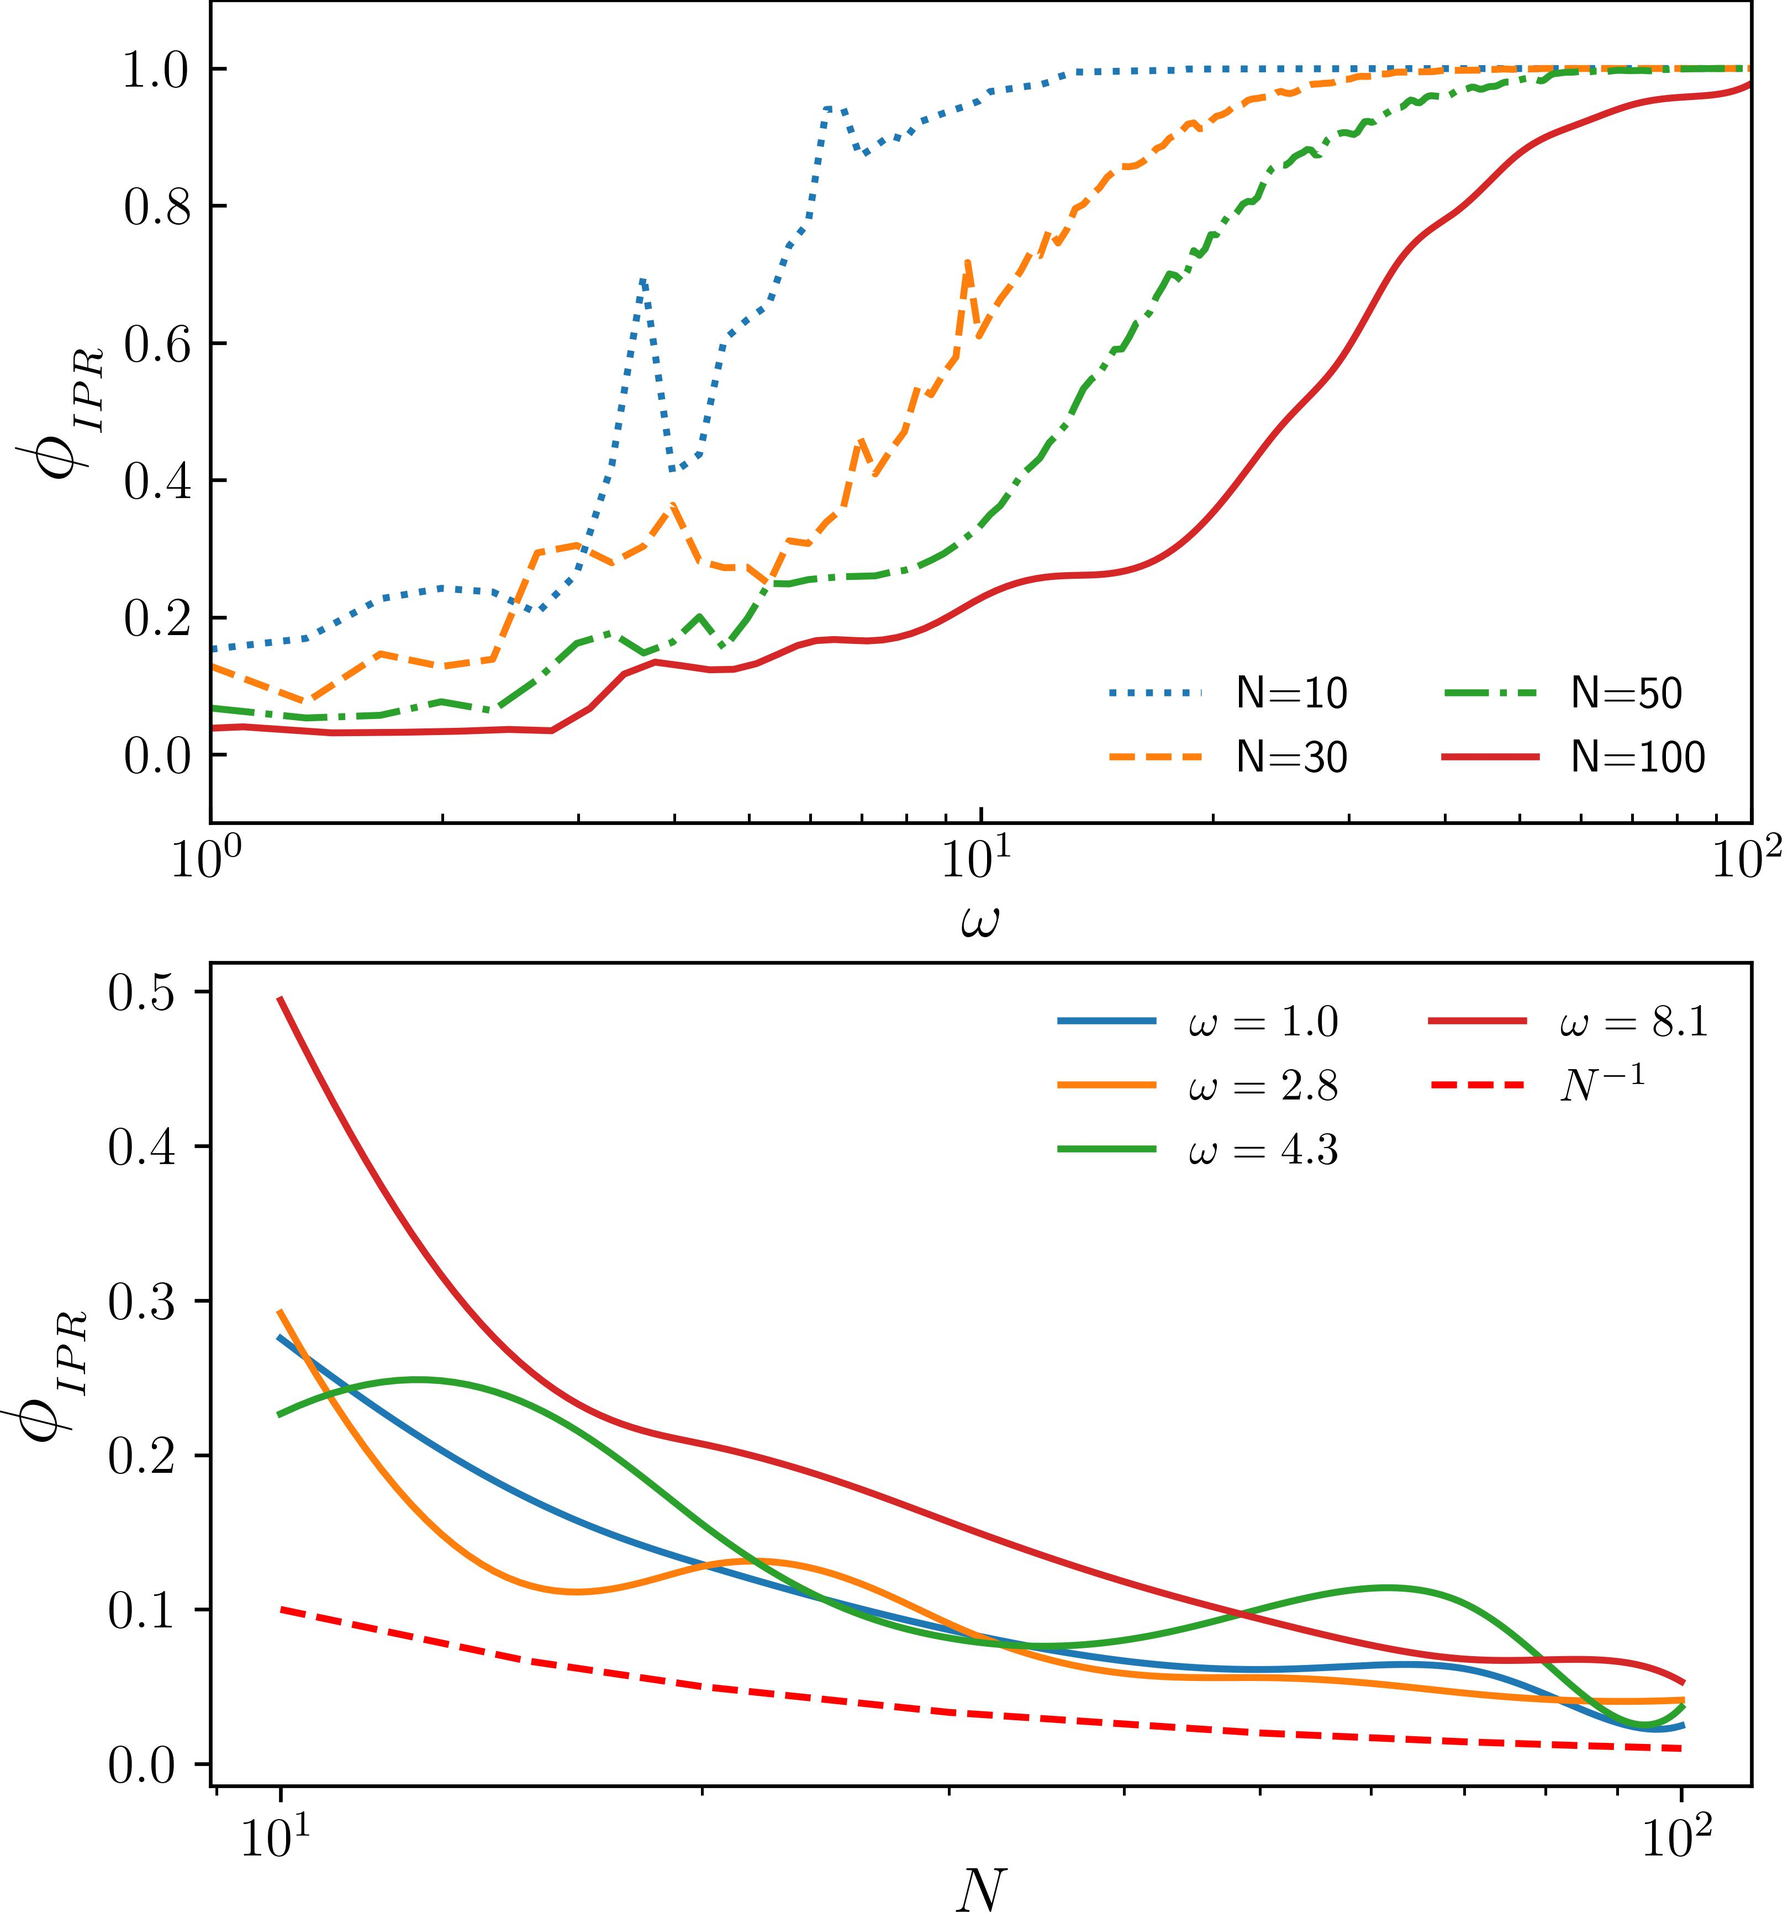
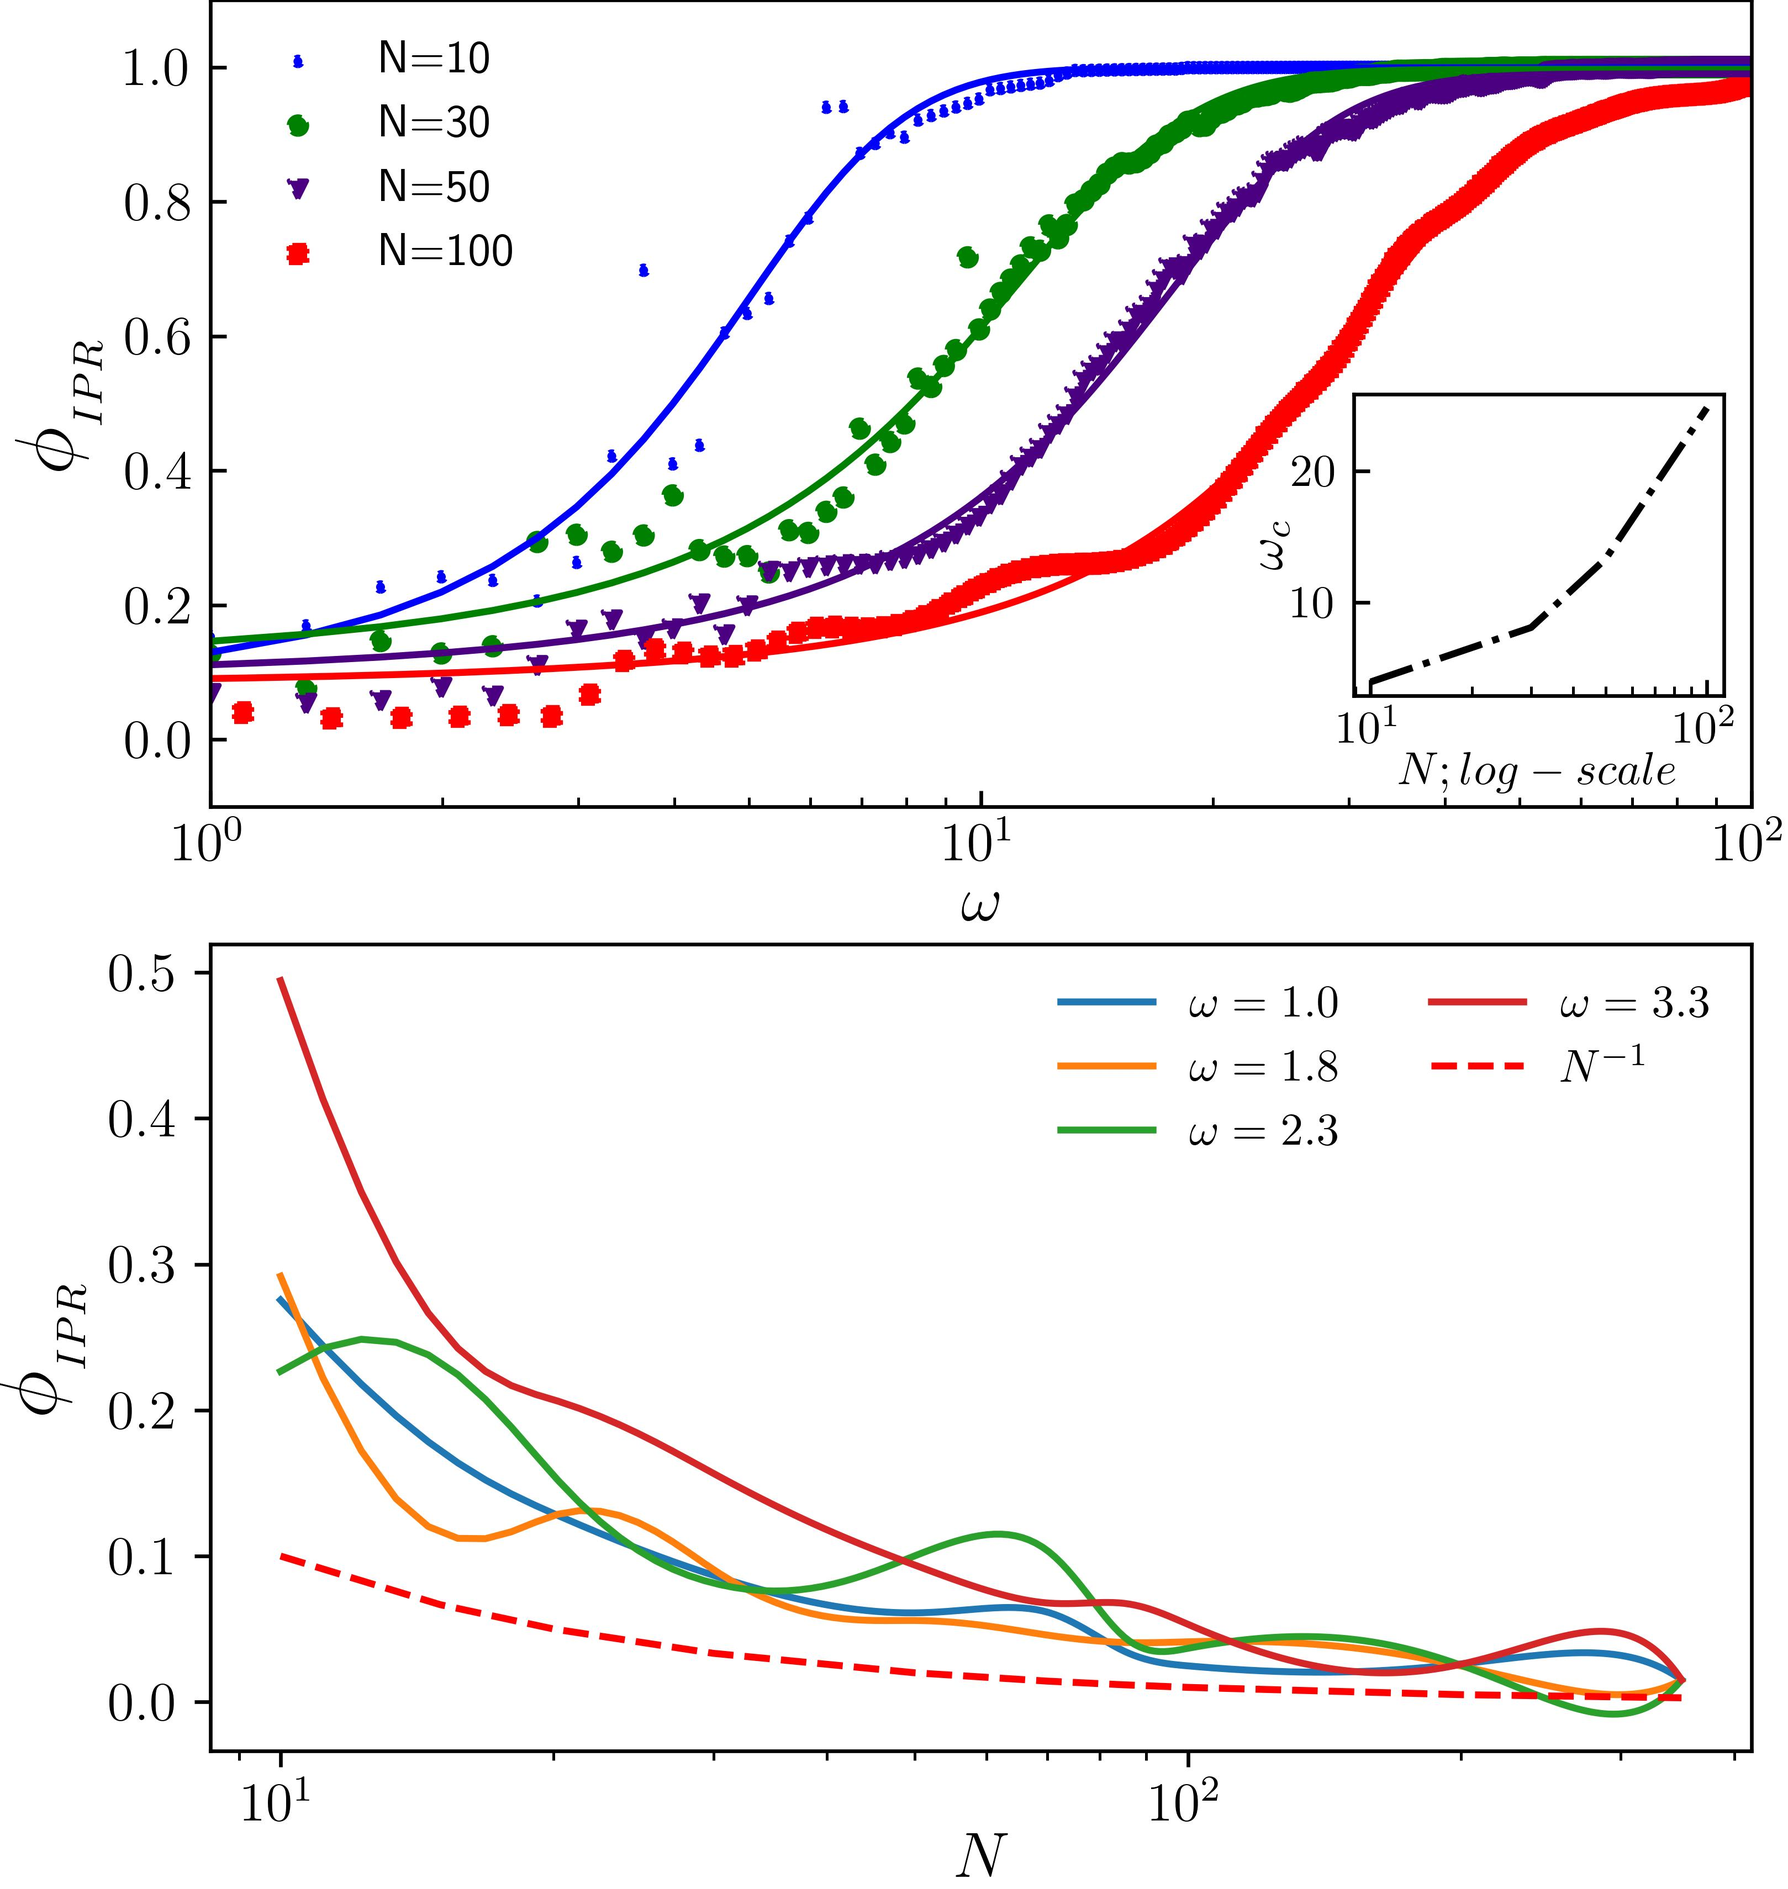
working

diff --git a/Long_Range_LMG_Manuscript/main.tex b/Long_Range_LMG_Manuscript/main.tex
@@ -54,7 +54,7 @@ showkeys,
 \keywords{Dynamical localization, Thermalization, Phase Crossover}
 \maketitle
 
-{Under certain resonance conditions in the drive parameters, periodically driven quantum many-body systems can experience dynamical many-body freezing (DMF), which causes the response to freeze completely to its initial value at all times}~\cite{bordia_periodically_2017, sahoo_periodically_2019, das_exotic_2010}. This arises as a consequence of additional approximate symmetries that occur at resonance~\cite{asmi:scars}. DMF has been demonstrated via the Rotating Wave Approximation (RWA) in the driven TFIM with nearest-neighbour interactions ~\cite{mbeng_quantum_2020} and is shown to be protected when translational invariance is explicitly broken (say, by disorder) ~\cite{yamada_localization_2022, roy_fate_2015}. 
+Under certain resonance conditions in the drive parameters, periodically driven quantum many-body systems can experience dynamical many-body freezing (DMF), which causes the response to freeze completely to its initial value at all times~\cite{bordia_periodically_2017, sahoo_periodically_2019, das_exotic_2010}. This arises as a consequence of additional approximate symmetries that occur at resonance~\cite{asmi:scars}. DMF has been demonstrated via the Rotating Wave Approximation (RWA) in the driven TFIM with nearest-neighbour interactions ~\cite{mbeng_quantum_2020} and is shown to be protected when translational invariance is explicitly broken (say, by disorder) ~\cite{yamada_localization_2022, roy_fate_2015}. 
 
 The utilization of Floquet theory simplifies the analysis of time-periodic systems. For closed quantum systems governed by the time-dependent Schr\"odinger equation, the \textit{Floquet Hamiltonian} allows for a mapping of the time-dependent dynamics into the dynamics of 	
 a time-independent effective Hamiltonian, provided the system is strobed at integer multiples of the time period of the drive. The time independent eigenstates of the effective Hamiltonian correspond to quasi-stationary \textit{Floquet Modes} of the original Hamiltonian. The temporal progression of the system comes from  phase coefficients that capture the dynamics \cite{li_floquet_2018,eckardt_high_frequency_2015}.	
@@ -164,7 +164,7 @@ In the frequency regime  $\omega \gg f_k$, the long-time average $H^{RWA}\equiv\
 	H^{RWA} = \sum_{(k,-k)-\mbox{pairs}} \psi^\dagger_k
 	\bigg[\ f_k\tau_z + 2 J_0(\eta) \Delta_k\tau_x \bigg]\psi_k.
 \end{equation}
-It is evident that by manipulating the drive parameters, specifically the amplitude denoted by $h$ and the frequency denoted by $\omega$, in a manner such that $\eta$ is positioned on a root of $J_0(\eta)$, the fermion number can be conserved to a significant extent at this particular resonance. Consequently, it is feasible to exercise direct control over $H^{RWA}$, resulting in a comprehensive suppression of the dynamics of otherwise responsive observables. 
+It is evident that by manipulating the drive parameters, specifically the amplitude denoted by $h$ and the frequency denoted by $\omega$, in a manner such that $\eta$ is positioned on a root of $J_0(\eta)$, the fermion number can be conserved to a significant extent at this particular resonance. \blue{} Consequently, it is feasible to exercise direct control over $H^{RWA}$, resulting in a comprehensive suppression of the dynamics of otherwise responsive observables. 
 
 This phenomenon is \blue{fairly} general in nature, and can be readily adapted to \blue{some} non-integrable systems \blue{particularly after addition of integrability fields or in the presence of long range interactions. For instance, if we apply an integrability-breaking longitudinal field,} 
 \todo[inline]{Check the math}
@@ -346,11 +346,11 @@ The quantum phase space retains signatures of the classical phase space dynamics
 The analysis of the periodically driven LMG model reveals two distinct scenarios at low and high external drive frequencies. In the former case, thermalization in accordance with FETH is seen, whereas in the latter case, DMBL is induced. As a result, we hypothesize that a macroscopic change in phase occurs due to the influence of frequency. 
 
 To demonstrate this, we investigate the IPR of the  Floquet mode with smallest quasienergy
-for numerous frequencies and system sizes, along with the associated drive amplitude $h$ keeping the system at a localization point. The results are shown in fig~\ref{fig:phase_crossover}. In the low-frequency range $\omega \in \left[1.0, 9.0\right]$, the IPR exhibits values well below unity.   {Moreover, as can be seen in the bottom panel of the same figure, when the dynamics is simulated for smaller} $\omega$s, {the fall of} $\phi_{IPR}(N)$ {asymptotically approaches one that characterizes a fully thermal state, where} $\phi_{IPR}(N)\sim 1/N$ {in the TSS. } In the limit  $N\rightarrow\infty$, the inverse participation ratio (IPR) tends towards zero, indicating a fully de-localized state.  {Contrast this with the IPR plots shown in the bottom left panel of fig}~\ref{fig:ipr:isinglowfrk} {for the integrable TFIM}.  {The top panel of fig.}~\ref{fig:phase_crossover} {also reveals} a gradual increase {in the unity} {towards unity} of IPR over a certain frequency range, specifically at $\omega \approx 5$. In addition, the rise does not cross with those for different values of $N$, suggesting the onset of a phase crossover~\cite{sierant_2023, sachdev_quantum_2011}. As the size of the system increases, the crossover region becomes smoother, rather than sharper.\todo[inline]{report size scaling of crossover.}
+for numerous frequencies and system sizes, along with the associated drive amplitude $h$ keeping the system at a localization point. The results are shown in fig~\ref{fig:phase_crossover}. In the low-frequency range $\omega \in \left[1.0, 9.0\right]$, the IPR exhibits values well below unity.   {Moreover, as can be seen in the bottom panel of the same figure, when the dynamics is simulated for smaller} $\omega$s, {the fall of} $\phi_{IPR}(N)$ {asymptotically approaches one that characterizes a fully thermal state, where} $\phi_{IPR}(N)\sim 1/N$ {in the TSS. } In the limit  $N\rightarrow\infty$, the inverse participation ratio (IPR) tends towards zero, indicating a fully de-localized state.  {Contrast this with the IPR plots shown in the bottom left panel of fig}~\ref{fig:ipr:isinglowfrk} {for the integrable TFIM}.  {The top panel of fig.}~\ref{fig:phase_crossover} {also reveals} a gradual increase {in the unity} {towards unity} of IPR over a certain frequency range, specifically at $\omega \approx 5$. In addition, the rise does not cross with those for different values of $N$, suggesting the onset of a phase crossover~\cite{sierant_2023, sachdev_quantum_2011}. As the size of the system increases, the crossover region becomes smoother, rather than sharper. \blue{The critical frequency ($\omega_c$) of crossover curves are numerically calculated and plotted for different system size Ns in Fig.\ref{fig:phase_crossover}(inset plot). It is observed that $\omega_c$ rises sharply as N increases. This indicates that at thermodynamic limit when $N \to \infty$ the corresponding critical frequency($\omega_c^\infty$) expected to $\omega_c^\infty \to\infty$ for a full localization in the system.}\todo[inline]{report size scaling of crossover.}
 \begin{figure}[t!]
 	\centering
-	\includegraphics[width =8.5cm]{phase_crossover_LMG1.jpeg}
-	\caption{{In the top panel, the IPR of the lowest quasienergy Floquet state is plotted as a function of} $\omega$ {for different} $N$s,{ with amplitude $h$ adjusted to ensure that} $J_0(\eta)=0$ {always. The smooth rise in IPR defines a phase crossover (top panel) between a fully thermal phase to a fully localized phase. The bottom panel plots the IPR versus} $N$ {for small} $\omega$s, {also with} $h$ {adjusted. The curves asymptotically approach the dependency} $\phi_{IPR}\sim 1/N$, indicating thermalization at low-$\omega$.\textbf{DESCRIBE THE INSET!}}
+	\includegraphics[width =8.5cm]{phase_crossover_LMG.jpeg}
+	\caption{{In the top panel, the IPR of the lowest quasienergy Floquet state is plotted as a function of} $\omega$ {for different} $N$s,{ with amplitude $h$ adjusted to ensure that} $J_0(\eta)=0$ {always. The smooth rise in IPR defines a phase crossover (top panel) between a fully thermal phase to a fully localized phase. \blue{In the inset, the critical frequencies($\omega_c$), corresponding to the crossover curves are plotted for different Ns. The variation in $\omega_c$'s is found to rise sharply with N, indicating $\omega_c  \to\infty$ when $N \to \infty$.} The bottom panel plots the IPR versus} $N$ {for small} $\omega$s, {also with} $h$ {adjusted. The curves asymptotically approach the dependency} $\phi_{IPR}\sim 1/N$, indicating thermalization at low-$\omega$.\textbf{DESCRIBE THE INSET!}}
 	\label{fig:phase_crossover}
 \end{figure}
 \begin{figure}[!ht]

diff --git a/dmbl_for_referee_etc/author_responses/BH14505_dmbl.tex b/dmbl_for_referee_etc/author_responses/BH14505_dmbl.tex
@@ -72,7 +72,7 @@
 		\item The referee says, ``\textit{On page 3, the Floquet eigenstate Thermalization hypothesis is stated without references. }".\\
 		
 		\response{
-			We thank the referee for pointing out this mistake. In the manuscript, we have provided proper references to FETH.
+			We thank the referee for pointing out this mistake. In the manuscript, we have provided proper references to FETH in Page 3.
 		}
 		
 		\item The referee says, "\textit{On page 4, after illustrating the resonances in the analytically solvable TFIM model, the authors claim, “This phenomenon is highly general and can be readily adapted to non-integrable systems”. I disagree with the statement, and clear references, if any, need to be cited to back up this statement. The manipulations made for TFIM are fine-tuned to this integrable system, and they break down the moment any integrability-breaking term is introduced. For example, if I add a longitudinal field sigma-x to the TFIM, I do not see how to adapt the procedure. }"\\
@@ -146,17 +146,17 @@
 				\hat{\mathcal{H}}_{_{TFIM+S_{x}}}^{R W A}=\frac{J}{2} \mathcal{J}_0\left(\frac{2h}{\omega}\right)\sum_{i}\Bigg[\left\{1+ \mathcal{J}_0\left(\frac{2h}{\omega}\right)\right\} \hat{\sigma}_{i}^{x} \hat{\sigma}_{i+1}^{x} + \hat{\sigma}^y_i\hat{\sigma}^y_{i+1}\left\{1- \mathcal{J}_0\left(\frac{2h}{\omega}\right)\right\} \Bigg] +\mathcal{J}_{0}\left(\frac{h}{\omega}\right) \frac12\sum_i\hat{\sigma}^x_i
 				\label{eq:tfimpsx}
 			\end{equation}
-			There isn't a single point in the ($h, \omega$) parameter space  where this RWA Hamiltonian vanishes, unlike the TFIM case. However, when $\mathcal{J}_0(2h/\omega)$ vanishes, the RWA Hamiltonian simply reduces to $\mathcal{J}_0(h/\omega) S^x$ and, therefore, is diagonal in the representation spanned by eigenstates of the longitudinal field. Thus, the IPR of the Floquet states, taken in this representation, will be unity. This recovers DMBL, albeit in a different representation. We can argue that the physically significant representation is the one spanned by the eigenstates of the symmetry breaking observable.}
+			There isn't a single point in the ($h, \omega$) parameter space,  where this RWA Hamiltonian vanishes, unlike the TFIM case. However, when $\mathcal{J}_0(2h/\omega)$ vanishes, the RWA Hamiltonian simply reduces to $\mathcal{J}_0(h/\omega) S^x$ and, therefore, is diagonal in the representation spanned by eigenstates of the longitudinal field. Thus, the IPR of the Floquet states, taken in this representation, will be unity. This recovers DMBL, albeit in a different representation. We can argue that the physically significant representation is the one spanned by the eigenstates of the symmetry breaking observable.}
 		\item The referee says,``\textit{In the discussion of phase crossover from thermal to DMBL, increasing N in Fig 8 appears to push the regime of the local phase to a larger drive frequency. This seems to raise the same concerns associated with the stability of disorder-induced localization, as in whether one needs infinite disorder or infinite driving frequency to
 			get a localization in the thermodynamic limit. Is this the case? }".
 		
 		\response{    	
-			We thank the referee for the comment. We have extended or simulations for larger system sizes and have verified that this is, indeed, the case. Increasing $N$ pushes the crossover point further to larger values of $\omega$, thus requiring infinite frequency at infinite size. We have updated the corresponding Fig.8 with a revised version, and have reported this in section 4 par 2.
+			We thank the referee for the comment. We have extended our simulations for larger system sizes and have verified that this is, indeed, the case. Increasing $N$ pushes the crossover point further to larger values of $\omega$, thus requiring infinite frequency at infinite size. We have updated the corresponding Fig.8 with a revised version, and have reported this in section 4 par 2.
 		}
 		\item The referee says,``\textit{Is the heating suppressed at points where the frequency meets the resonance condition? }".
 		\todo{rewrite}
 		\response{
-			We thank the referee for this comment. We agree with understanding of the referee. The resonance condition derived from the Rotating Wave Approximation(RWA) over the Hamiltonian of system. At resonance condition(s), it is possible to nullify the effective Hamiltonian. This results in total localization of the system. This is true for infinite times. Thus the system at resonance condition never undergo the heating.
+			We thank the referee for this comment. We agree with understanding of the referee. The resonance condition derived from the Rotating Wave Approximation(RWA) over the Hamiltonian of system. At resonance condition(s), it is possible to nullify the effective Hamiltonian. This results in total localization of the system for infinite time. We have discussed about resonance condition in the manuscript at the introduction part in Page 1, also in background section in Page 4, after Eq.(14). 
 		}
 		
 		\item The referee says, ``\textit{The discussion related to Fig. 9 could be improved, and it is not clear to me why the standard deviation of temporal fluctuations should vanish for thermalizing systems. }"\\
